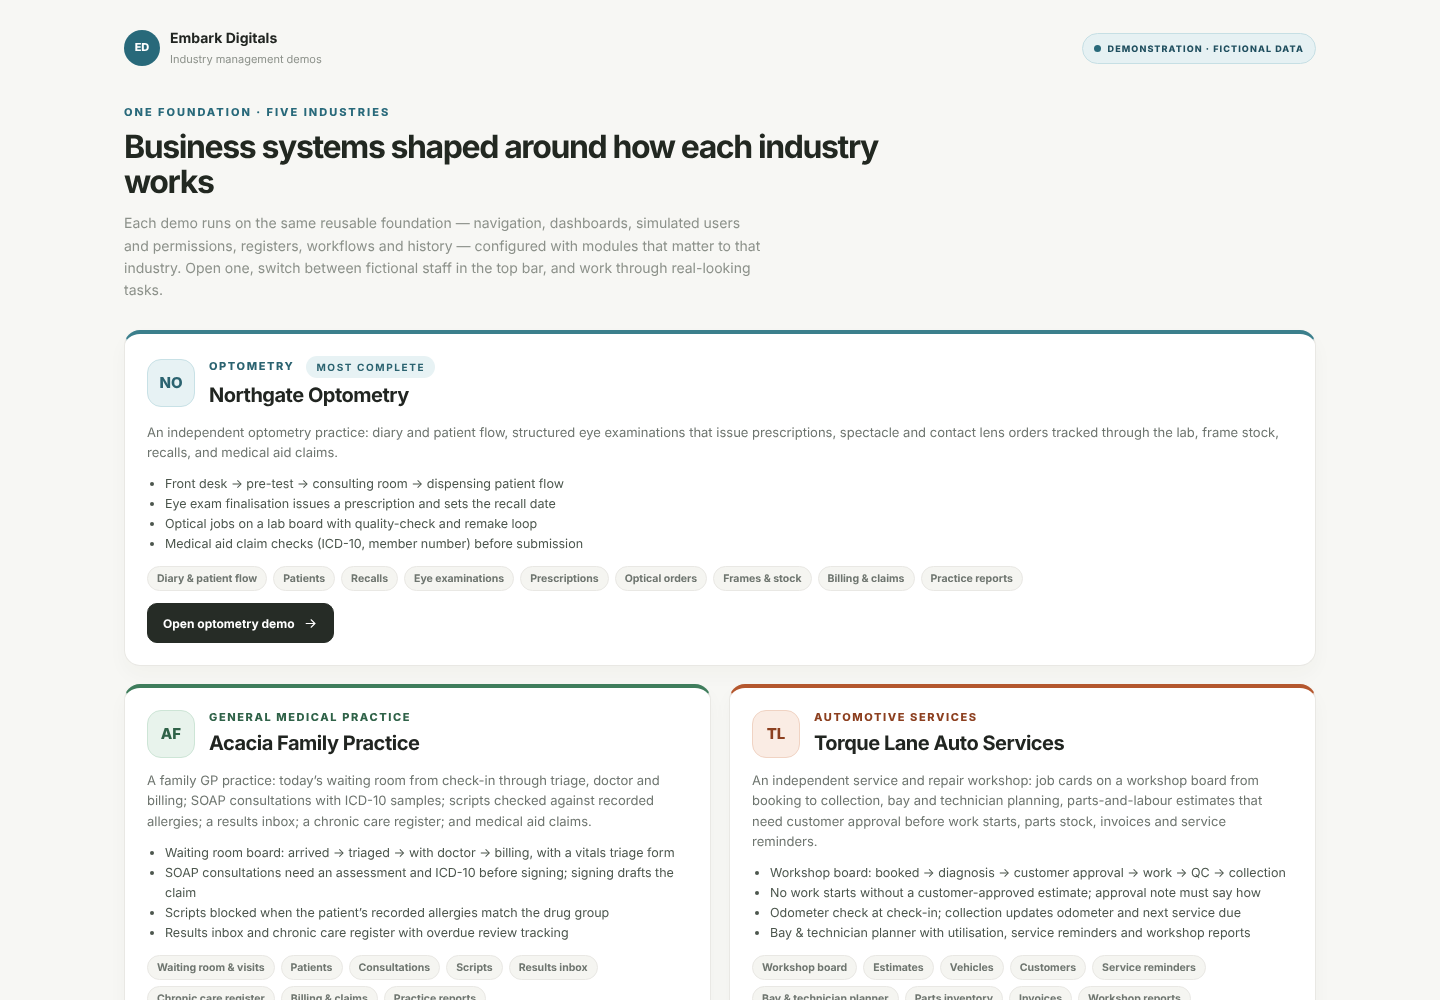
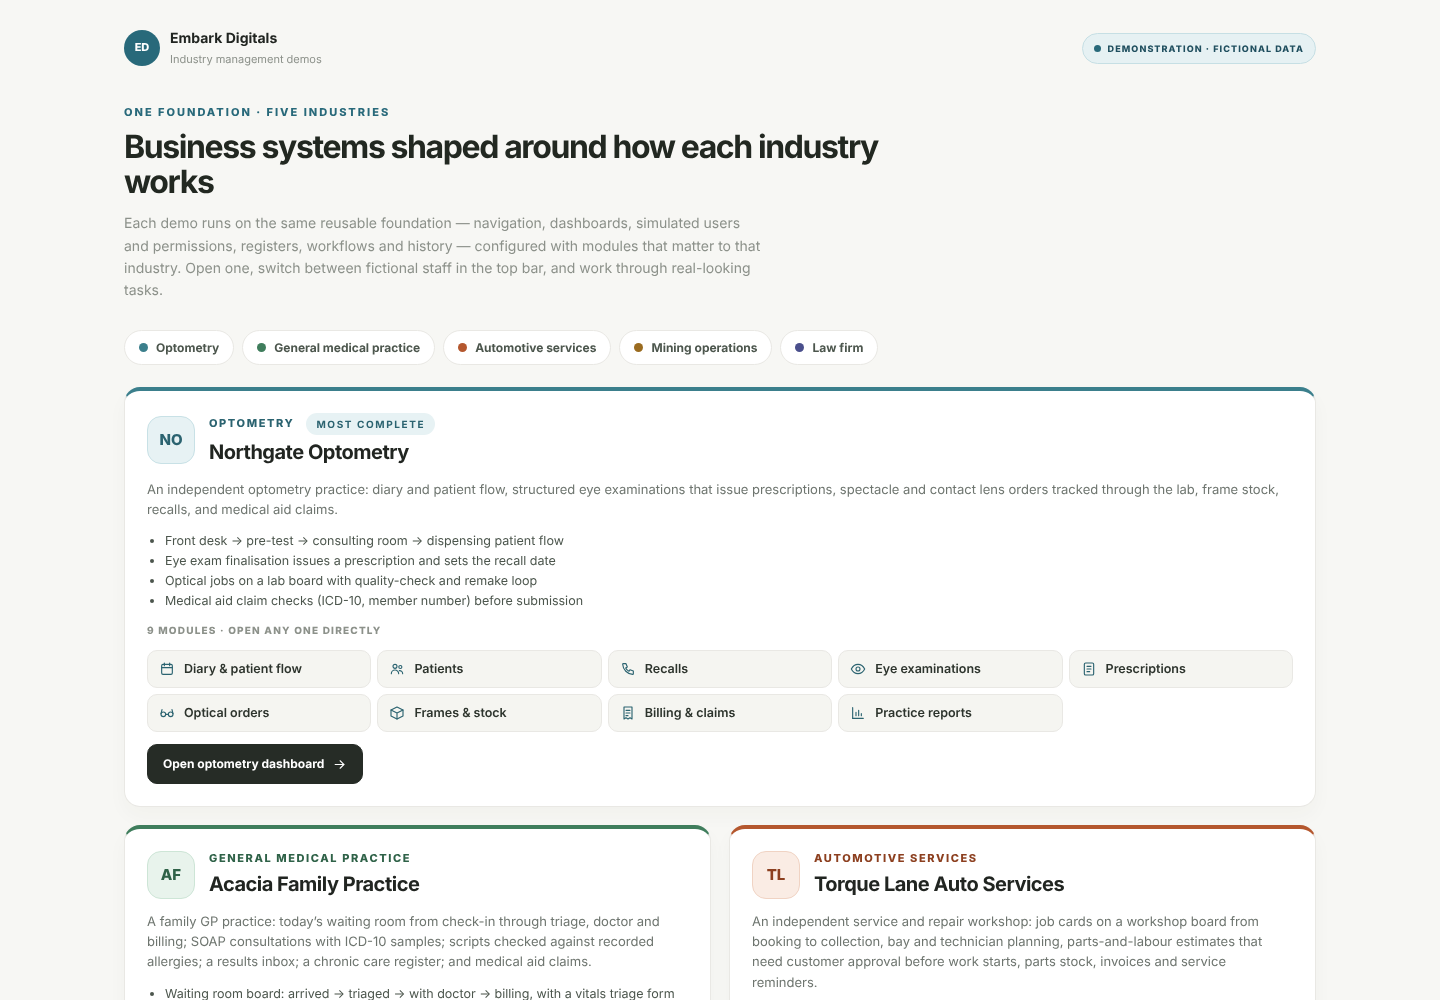
Opening screen links every module directly; path-independent build; GitHub Pages workflow
Claude-Session: https://claude.ai/code/session_01BKFWGtDW8RxH4Q4pxGc8Ep

Changed region(s): [[0.0938, 0.31, 0.9062, 1.0], [0.4375, 0.558, 0.625, 0.589], [0.6562, 0.558, 0.6875, 0.589]]

diff --git a/src/styles/foundation.css b/src/styles/foundation.css
@@ -113,8 +113,6 @@ a:focus-visible, button:focus-visible, .clickable:focus-visible, select:focus-vi
 .gallery-card h2 { font-size: 20px; letter-spacing: -.5px; margin-top: 3px; }
 .gallery-card p { color: var(--muted); font-size: 13px; line-height: 1.55; }
 .gallery-highlights { margin: 0; padding-left: 18px; color: var(--ink-3); font-size: 12.5px; line-height: 1.6; }
-.gallery-modules { display: flex; flex-wrap: wrap; gap: 6px; }
-.gallery-modules span { font-size: 10.5px; font-weight: 700; color: var(--muted); background: var(--bg-subtle); border: 1px solid var(--line); border-radius: 20px; padding: 4px 9px; }
 .gallery-card .btn { align-self: flex-start; margin-top: auto; }
 .gallery-boundary { margin-top: 24px; background: var(--bg-subtle); border: 1px solid var(--line); border-radius: 14px; padding: 18px 20px; font-size: 13px; color: var(--muted); line-height: 1.6; }
 .gallery-boundary b { color: var(--ink-2); display: block; margin-bottom: 4px; }
@@ -187,3 +185,17 @@ a:focus-visible, button:focus-visible, .clickable:focus-visible, select:focus-vi
 .board-card .tag, .patient-card .tag, .list .tag { white-space: normal; line-height: 1.3; max-width: 100%; }
 .board-card .flags { display: flex; }
 body { background: var(--bg-app); }
+
+/* Gallery: module links inside each industry card, and an industry jump bar */
+.gallery-jump { display: flex; flex-wrap: wrap; gap: 8px; margin: 0 0 22px; }
+.gallery-jump a { display: inline-flex; align-items: center; gap: 8px; text-decoration: none; font-size: 12px; font-weight: 700; color: var(--ink-3); background: #fff; border: 1px solid var(--line); border-radius: 30px; padding: 8px 14px; }
+.gallery-jump a:hover { border-color: var(--line-3); color: var(--ink); }
+.gallery-jump i { width: 9px; height: 9px; border-radius: 50%; background: var(--accent); }
+.gallery-card { scroll-margin-top: 16px; }
+.gallery-modules-head { font-size: 10px; letter-spacing: 1.2px; font-weight: 800; text-transform: uppercase; color: var(--muted-2); }
+.gallery-modules { display: grid; grid-template-columns: repeat(auto-fill, minmax(190px, 1fr)); gap: 6px; }
+.gallery-modules a { display: flex; align-items: center; gap: 9px; min-width: 0; text-decoration: none; font-size: 12.5px; font-weight: 600; color: var(--ink-2); background: var(--bg-subtle); border: 1px solid var(--line); border-radius: 10px; padding: 9px 11px; }
+.gallery-modules a .ico { width: 16px; height: 16px; color: var(--accent-text); flex: none; }
+.gallery-modules a span { overflow: hidden; text-overflow: ellipsis; white-space: nowrap; }
+.gallery-modules a:hover { background: var(--accent-tint); border-color: var(--accent-line); color: var(--ink); }
+@media (max-width: 480px) { .gallery-modules { grid-template-columns: minmax(0, 1fr) minmax(0, 1fr); } }

diff --git a/src/core/pages/Gallery.tsx b/src/core/pages/Gallery.tsx
@@ -20,9 +20,15 @@ export default function Gallery() {
           configured with modules that matter to that industry. Open one, switch between fictional staff in the top bar, and work through real-looking tasks.
         </p>
       </section>
+      <nav className="gallery-jump" aria-label="Jump to an industry">
+        {list.map((c) => (
+          <a key={c.id} href={`#/`} onClick={(e) => { e.preventDefault(); document.getElementById(`card-${c.id}`)?.scrollIntoView({ behavior: 'smooth', block: 'start' }); }}
+            style={{ '--accent': c.theme.accent } as CSSProperties}><i />{c.industry}</a>
+        ))}
+      </nav>
       <div className="gallery-grid">
         {list.map((c, i) => (
-          <article key={c.id} className={`gallery-card ${i === 0 ? 'featured' : ''}`} style={{ '--accent': c.theme.accent, '--accent-tint': c.theme.accentTint, '--accent-text': c.theme.accentText, '--accent-line': c.theme.accentLine } as CSSProperties} data-testid={`industry-${c.id}`}>
+          <article key={c.id} id={`card-${c.id}`} className={`gallery-card ${i === 0 ? 'featured' : ''}`} style={{ '--accent': c.theme.accent, '--accent-tint': c.theme.accentTint, '--accent-text': c.theme.accentText, '--accent-line': c.theme.accentLine } as CSSProperties} data-testid={`industry-${c.id}`}>
             <div className="gallery-card-top">
               <span className="gallery-mono">{c.monogram}</span>
               <div>
@@ -32,8 +38,15 @@ export default function Gallery() {
             </div>
             <p>{c.summary}</p>
             <ul className="gallery-highlights">{c.highlights.map((h) => <li key={h}>{h}</li>)}</ul>
-            <div className="gallery-modules">{c.modules.map((m) => <span key={m.key}>{m.label}</span>)}</div>
-            <Link className="btn primary" to={`/${c.id}`}>Open {c.industry.toLowerCase()} demo <IcoArrow /></Link>
+            <div className="gallery-modules-head">{c.modules.length} modules · open any one directly</div>
+            <nav className="gallery-modules" aria-label={`${c.industry} modules`}>
+              {c.modules.map((m) => (
+                <Link key={m.key} to={`/${c.id}/${m.key}`} title={m.description} data-testid={`module-${c.id}-${m.key}`}>
+                  <m.icon /><span>{m.label}</span>
+                </Link>
+              ))}
+            </nav>
+            <Link className="btn primary" to={`/${c.id}`}>Open {c.industry.toLowerCase()} dashboard <IcoArrow /></Link>
           </article>
         ))}
       </div>

diff --git a/e2e/optometry.spec.ts b/e2e/optometry.spec.ts
@@ -16,7 +16,11 @@ test.describe('Optometry demo', () => {
     await page.goto('#/');
     await expect(page.getByTestId('industry-optometry')).toBeVisible();
     for (const id of ['medical', 'automotive', 'mining', 'legal']) await expect(page.getByTestId(`industry-${id}`)).toBeVisible();
-    await page.getByRole('link', { name: /Open optometry demo/ }).click();
+    // Every module on every card is a direct link into that industry's module.
+    await page.getByTestId('module-mining-permits').click();
+    await expect(page.getByRole('heading', { level: 1 })).toHaveText('Permits to work');
+    await page.goto('#/');
+    await page.getByRole('link', { name: /Open optometry dashboard/ }).click();
     await expect(page.getByRole('heading', { level: 1 })).toContainText('Good day');
     await expect(page.getByTestId('today-list').locator('li')).toHaveCount(16);
     expect(errors).toEqual([]);

diff --git a/vite.config.ts b/vite.config.ts
@@ -2,13 +2,13 @@
 import { defineConfig } from 'vite';
 import react from '@vitejs/plugin-react';
 
-// GitHub Pages serves a project site from /<repo>/. `npm run build:preview`
-// overrides this with a relative base for portable static previews.
-const REPO_NAME = 'embark-industry-demos';
+// Relative base: with hash routing the same build works at any path — a GitHub
+// Pages project site (/<repo>/), a custom domain root, or a single-file preview —
+// so renaming the repository needs no code change.
 
 export default defineConfig({
   plugins: [react()],
-  base: `/${REPO_NAME}/`,
+  base: './',
   build: { outDir: 'dist', sourcemap: false, target: 'es2020' },
   test: { environment: 'node', include: ['tests/**/*.test.ts'] },
 });

diff --git a/playwright.config.ts b/playwright.config.ts
@@ -1,6 +1,6 @@
 import { defineConfig, devices } from '@playwright/test';
 
-const BASE = '/embark-industry-demos/';
+const BASE = '/';
 const PORT = 5174;
 
 export default defineConfig({

diff --git a/docs/QA_RESULTS.md b/docs/QA_RESULTS.md
@@ -7,7 +7,7 @@ Run on 11 Nov 2026 in a Linux cloud container (Node 22, Chromium via Playwright 
 | Typecheck | `npm run typecheck` | Pass |
 | Lint | `npm run lint` | 0 errors, 8 warnings (react-refresh "only export components" — dev hot-reload hint only) |
 | Unit tests | `npm test` | **87 passed** in 6 files: engine 13 · optometry 11 · medical 13 · automotive 12 · mining 17 · legal 21 |
-| Browser tests | `npm run e2e` | **14 passed** (5 cross-industry smoke + 9 optometry workflows) |
+| Browser tests | `npm run e2e` | **14 passed** (5 cross-industry smoke + 9 optometry workflows, incl. opening-screen module links) |
 | Production build | `npm run build` | Pass — JS 780 kB (238 kB gzip), CSS 37 kB |
 | Preview build | `npm run build:preview` | Single self-contained HTML (~800 kB) boots with no console errors |
 

diff --git a/README.md b/README.md
@@ -26,7 +26,7 @@ npm install
 ```
 
 ```bash
-npm run dev          # http://localhost:5173/embark-industry-demos/
+npm run dev          # http://localhost:5173/
 ```
 
 ```bash
@@ -42,7 +42,7 @@ npm run e2e          # Playwright browser tests (first time: npx playwright inst
 ```
 
 ```bash
-npm run build        # GitHub Pages build (base /embark-industry-demos/)
+npm run build        # static build in dist/ (works at any path)
 npm run build:preview  # portable build with relative paths (dist-preview/)
 ```
 
